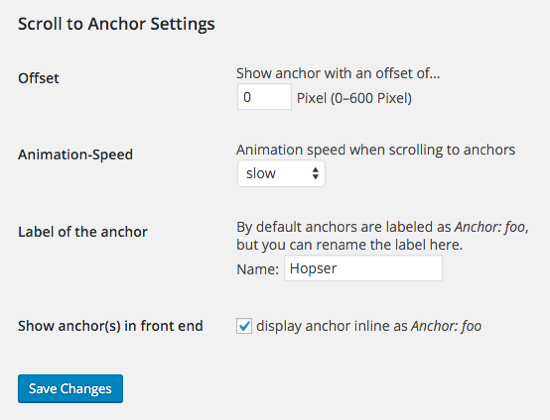
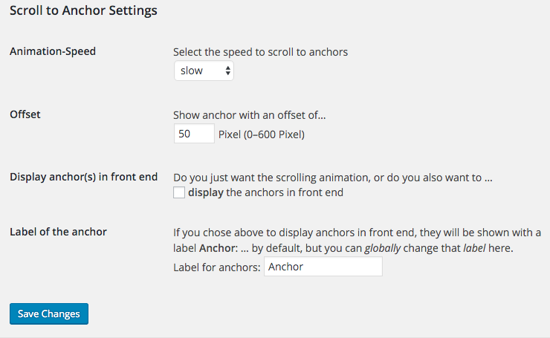
Reordered settings menu, bugfix for uninstall

diff --git a/settings/sta-settings.php b/settings/sta-settings.php
@@ -27,6 +27,16 @@ if ( ! function_exists( 'sta_settings_api_init' ) ) {
 			$page = 'reading'
 		);
 
+		//Settings Field Scroll Speed
+		add_settings_field(
+			$id = 'sta_speed',
+			$title = __( 'Animation-Speed', 'scroll-to-anchor' ),
+			$callback = 'sta_settings_speed_function',
+			$page = 'reading',
+			$section = 'sta_section',
+			$args = array()
+		);
+
 		//Settings Field Distance
 		add_settings_field(
 			$id = 'sta_distance',
@@ -37,11 +47,11 @@ if ( ! function_exists( 'sta_settings_api_init' ) ) {
 			$args = array()
 		);
 
-		//Settings Field Scroll Speed
+		//Settings Show Anchor
 		add_settings_field(
-			$id = 'sta_speed',
-			$title = __( 'Animation-Speed', 'scroll-to-anchor' ),
-			$callback = 'sta_settings_speed_function',
+			$id = 'sta_show',
+			$title = __( 'Display anchor(s) in front end', 'scroll-to-anchor' ),
+			$callback = 'sta_settings_showanchor_function',
 			$page = 'reading',
 			$section = 'sta_section',
 			$args = array()
@@ -57,16 +67,6 @@ if ( ! function_exists( 'sta_settings_api_init' ) ) {
 			$args = array()
 		);
 
-		//Settings Show Anchor
-		add_settings_field(
-			$id = 'sta_show',
-			$title = __( 'Show anchor(s) in front end', 'scroll-to-anchor' ),
-			$callback = 'sta_settings_showanchor_function',
-			$page = 'reading',
-			$section = 'sta_section',
-			$args = array()
-		);
-
 		register_setting( 'reading', 'scroll_to_anchor', 'sta_sanitize' );
 	}
 }
@@ -74,19 +74,6 @@ if ( ! function_exists( 'sta_settings_api_init' ) ) {
 /* ------------------------------------------------------------------------- *
  * 2. Form Fields
  * ------------------------------------------------------------------------- */
-
-//Form Field DISTANCE
-if ( ! function_exists( 'sta_settings_distance_function' ) ) {
-	function sta_settings_distance_function() {
-		$current = (array) get_option( 'scroll_to_anchor' );
-
-		$html = __( 'Show anchor with an offset of…', 'scroll-to-anchor' ).'<br />';
-		$html .= '<input name="scroll_to_anchor[distance]" id="sta-distance" type="text" value="'.esc_attr( $current['distance'] ).'" size="5"/> ';
-		$html .= '<label for="sta-distance">'.__( 'Pixel', 'scroll-to-anchor' ).' (0&ndash;600 Pixel)</label>';
-
-		echo  $html;
-	}
-}
 
 //Form Field SPEED
 if ( ! function_exists( 'sta_settings_speed_function' ) ) {
@@ -100,7 +87,7 @@ if ( ! function_exists( 'sta_settings_speed_function' ) ) {
 			0    => __( 'disabled', 'scroll-to-anchor' ),
 		);
 
-		$html = __( 'Animation speed when scrolling to anchors', 'scroll-to-anchor' ).'<br />';
+		$html = '<p>'.__( 'Select the speed to scroll to anchors', 'scroll-to-anchor' ).'</p>';
 		$html .= '<select id="speed" name="scroll_to_anchor[speed]}">';
 
 		foreach ( $options as $value => $text ) {
@@ -114,15 +101,14 @@ if ( ! function_exists( 'sta_settings_speed_function' ) ) {
 	}
 }
 
-//form field for anchor label
-if ( ! function_exists( 'sta_settings_label_function' ) ) {
-	function sta_settings_label_function() {
+//Form Field DISTANCE
+if ( ! function_exists( 'sta_settings_distance_function' ) ) {
+	function sta_settings_distance_function() {
 		$current = (array) get_option( 'scroll_to_anchor' );
 
-		$html = __( 'By default anchors are labeled as <em>Anchor: foo</em>, <br />
-    but you can rename the label here.', 'scroll-to-anchor' ).'<br />';
-		$html .= '<label for="sta-label">'.__( 'Name:', 'scroll-to-anchor' ).'</label> ';
-		$html .= '<input name="scroll_to_anchor[label]" id="sta-label" type="text" value="'.esc_attr( $current['label'] ).'" /> ';
+		$html = '<p>'.__( 'Show anchor with an offset of…', 'scroll-to-anchor' ).'</p>';
+		$html .= '<input name="scroll_to_anchor[distance]" id="sta-distance" type="text" value="'.esc_attr( $current['distance'] ).'" size="5"/> ';
+		$html .= '<label for="sta-distance">'.__( 'Pixel', 'scroll-to-anchor' ).' (0&ndash;600 Pixel)</label>';
 
 		echo  $html;
 	}
@@ -133,8 +119,29 @@ if ( ! function_exists( 'sta_settings_showanchor_function' ) ) {
 	function sta_settings_showanchor_function() {
 		$current = (array) get_option( 'scroll_to_anchor' );
 
-		$html = '<input name="scroll_to_anchor[show]" id="sta-show" type="checkbox" value="1" '.checked( isset( $current['show'] ), 1, false ).'/>';
-		$html .= '<label for="sta-show">'.__( 'display anchor inline as <em>Anchor: foo</em>', 'scroll-to-anchor' ).'</label>';
+		$html = '<p style="max-width:36em;">' . __( 'Do you just want the scrolling animation, or do you also want to &hellip;', 'scroll-to-anchor' ).'</p>';
+		$html .= '<input name="scroll_to_anchor[show]" id="sta-show" type="checkbox" value="1" '.checked( isset( $current['show'] ), 1, false ).'/>';
+		$html .= '<label for="sta-show">';
+		$html .= __( '<strong>display</strong> the anchors in front end' , 'scroll-to-anchor' );
+		$html .= '</label>';
+
+		echo  $html;
+	}
+}
+
+//form field for anchor label
+if ( ! function_exists( 'sta_settings_label_function' ) ) {
+	function sta_settings_label_function() {
+		$current = (array) get_option( 'scroll_to_anchor' );
+		if ( $current['label'] ) {
+			$label = esc_attr( $current['label'] );
+		} else {
+			$label = __( 'Anchor', 'scroll-to-anchor' );
+		}
+
+		$html = '<p style="max-width:36em;">'. sprintf( __( 'If you chose above to display anchors in front end, they will be shown with a label <strong>%s</strong>:&nbsp;&hellip; by default, but you can <em>globally</em> change that <em>label</em> here.', 'scroll-to-anchor' ), $label ) .'</p>';
+		$html .= '<label for="sta-label">'.__( 'Label for anchors:', 'scroll-to-anchor' ).'</label> ';
+		$html .= '<input name="scroll_to_anchor[label]" id="sta-label" type="text" value="'.esc_attr( $current['label'] ).'" /> ';
 
 		echo  $html;
 	}

diff --git a/scroll-to-anchor.php b/scroll-to-anchor.php
@@ -65,7 +65,6 @@ if ( ! function_exists( 'sta_initial_options' ) ) {
 			$op = array(
 				'speed'    => 5000,
 				'distance' => 50,
-				'show'     => 1,
 				'label'    => 'Anchor',
 			);
 			add_option( 'scroll_to_anchor', $op );

diff --git a/uninstall.php b/uninstall.php
@@ -8,6 +8,6 @@ if ( ! defined( 'WP_UNINSTALL_PLUGIN' ) ) {
 	exit();
 }
 
-delete_option( 'scroll-to-anchor' );
+delete_option( 'scroll_to_anchor' );
 
 // Thank you for using my plugin. <3

diff --git a/README.md b/README.md
@@ -8,37 +8,45 @@
 
 Do you write longer text in posts or pages and want to provide links to skip parts?
 
-Usually this is done by adding HTML anchors in the text editor as link targets. But not everyone feels happy writing HTML code, which also may be error-prone. Instead you can now use the new anchor icon in your visual editor toolbar to place anchors.
+Usually this is done by adding HTML anchors in the text editor as link targets. But not everyone feels happy writing HTML code, which also may be error-prone. After installing this plugin you can use the new anchor icon in your visual editor toolbar to place anchors.
 
-Click in your text where you want to place the anchor, then click the anchor icon. A dialog box appears where you can provide a short name for your anchor (e.g. "summary") and optionally give the anchor a CSS class name for individual styling. As a result, a shortcode will be placed into your text, which will then get replaced in the front end with the correct HTML.
+Click in your text where you want to place the anchor, then click on the anchor icon. A dialog box appears where you can provide a short name for your anchor (e.g. "summary"). Optionally you may also provide CSS class name to individually style the anchor. As a result, a shortcode will be placed into your text. This shortcode will render according to your settings and get replaced in the front end with the correct HTML.
 
-Next you can create a link to this anchor at another section of your text. Write some Text (e.g. "Skip to summary"), mark the text and use the default link icon in the editor toolbar. Instead of the complete URL it is sufficient if you provide the anchor name, preceded by a hash sign (e.g. "#summary"). That’s about it. If a visitors of your website now clicks on that link in the front end, they will see the web page scrolling smoothly to the defined anchor.
+Next you can create a link to this anchor. Write some Text (e.g. "Skip to summary"), mark the text and use the default link icon in the editor toolbar. Instead of the complete URL it is sufficient to provide the previously created anchor name, preceded by a hash sign (e.g. "#summary"). That’s about it. If a visitors of your website now clicks on that link in the front end, they will see the web page scrolling smoothly to the defined anchor.
 
 ### Individual Settings ###
 
-Is the animation too fast or too slow? Under **Settings > Reading** you can select the speed or even disable the animation.
+This plugin provides some enhancement only, so it doesn't come with yet another settings page but instead adds a settings section to the menu **Settings > Reading**.
+
+Here you can select the speed of the scrolling animation or even disable the animation entirely.
 
 You can also set an **offset** for anchors, which comes handy if you e.g. use a fixed header.
 
-How do you want the anchor to be displayed? By default the anchor will be displayed as "Anchor: …" but you can chose any term you like, e.g. "Label: …". If you rather don't want to show the anchor at all, just uncheck the check box underneath.
+Some users just want the smooth scrolling effect, but don't want any text to show up in their posts or pages. Therefore the plugin won't display anything in the front end unless you choose differently in the settings. Those who want to show the anchors as text, may choose their own label for anchors, e.g. "footnote" or "section" (followed by the name you chose for that particular anchor).
 
-## Installation ##
+### Installation ###
 
-You can install **Scroll to Anchor** automatically from the plugin directory, or by uploading the files manually to your server. After activating **Scroll to Anchor** check the settings at the bottom of the WordPress menu **Settings > Reading**.
+You can install **Scroll to Anchor** automatically from the plugin directory, or by uploading the files manually to your server. After activating **Scroll to Anchor** you'll be forwarded to the settings section at the bottom of the menu **Settings > Reading**.
 
-For uninstall, just deactivate and delete the plugin. Remember to delete the shortcodes you may have added using the plugin.
+To uninstall, just deactivate and delete the plugin. Remember to remove the shortcodes you may have added using the plugin.
 
-## Frequently Asked Questions ##
+### Frequently Asked Questions ###
 
-None so far. Please feel free to use the plugin support forum if you have any question.
+Q: Why don't I see any settings page?
+There is no need to add yet another settings page. You'll find the plugin settings at **Settings > Reading**.
 
-## Screenshots ##
+### Screenshots ###
 
 1. Settings > Reading
 2. Adding a new anchor
 3. Creating link to anchor
 
-## Changelog ##
+### Changelog ###
+
+### 0.3.4 ###
+Release date: March, 26t, 2016
+Bug-Fix: Settings weren't deleted from the database due to a wrong variable name.
+Enhancement: Changes initial setting after installation to hide the anchor in the front end by default. Settings menu rearranged and with easier to understand descriptions.
 
 ### 0.3.3 ###
 Release date: March, 14th, 2016
@@ -48,15 +56,14 @@ Bug-Fix: Replaces hook used to show settings link
 Release date: March, 12th, 2016
 Enhancement: Menu plugins now shows link to settings section
 
-
 ### 0.3.1 ###
 Release date: February, 13th, 2016
 Enhancement: .pot-File for translation and German formal translation added.
 Bug-Fixes:   Some minor changes like removing unnecessary variables.
 
 ### 0.3 ###
-Initial Release: February 12th, 2016
-
+Release date: February 12th, 2016
+Initial release.
 
 -----
 The banner for the WordPress Plugin Repository is based on the image ["Coast and Geodetic Survey Ship FATHOMER. In service 1905-1941."](http://www.photolib.noaa.gov/htmls/theb0139.htm) published in **Public Domain** by National Oceanic and Atmospheric Administration/Department of Commerce, USA. Photograph by C&GS Season's Report Miller, 1911.
